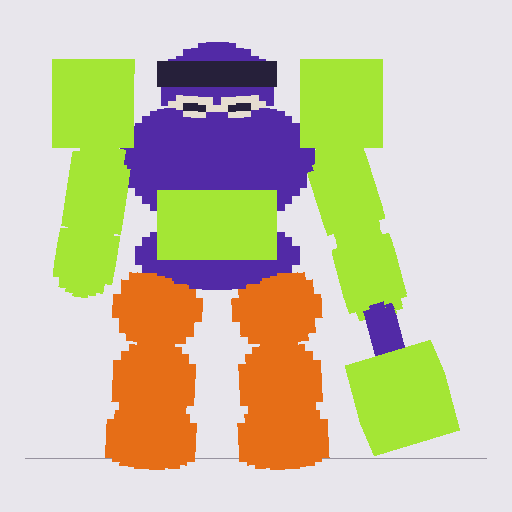
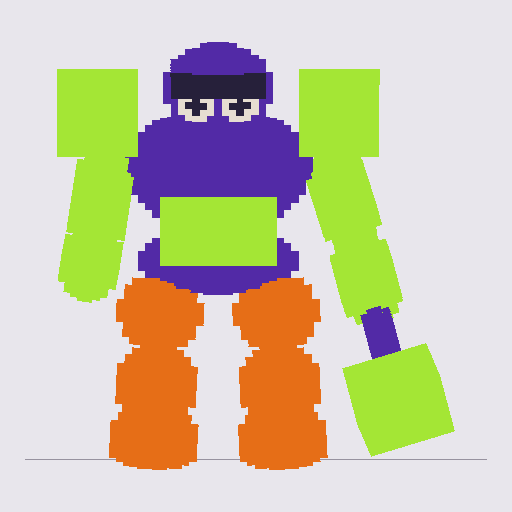
fix(GAME-10n): review, the whole orange leg is the weak point; visor on the brow
Shins and feet are orange like the thighs, so they take weak point damage too.
The visor floated above a sunken head: the head sits higher, the visor sits on
the brow and the eyes are round, as in the concept.

diff --git a/tests/foamers/maul.test.ts b/tests/foamers/maul.test.ts
@@ -108,11 +108,12 @@ describe("the F14 maul brawler (GAME-10n stage 1)", () => {
     expect(span(RIG)).toBeGreaterThan(span(seawall));
   });
 
-  it("3. both legs carry the weak point and the feet are orange", () => {
+  it("3. every orange leg part is the weak point, and only those", () => {
     const wp = (SPEC as { weakpoint?: { parts: string[]; damage: number } }).weakpoint;
-    expect(wp?.parts).toEqual(["legL", "legR"]);
+    const legs = RIG.parts.filter((q) => q.kind === "leg").map((q) => q.id);
+    expect([...(wp?.parts ?? [])].sort()).toEqual([...legs].sort());
     expect(wp?.damage).toBe(2);
-    for (const id of ["legL", "legR", "footL", "footR"]) {
+    for (const id of legs) {
       const p = RIG.parts.find((q) => q.id === id)!;
       expect(p.material, id).toContain("foam-orange");
     }
